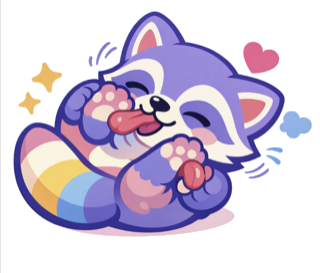
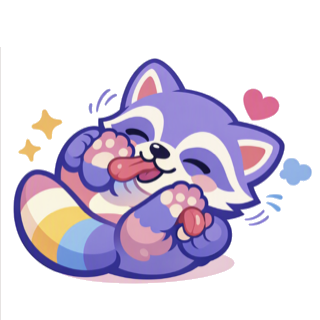
Rebuild mascot trash-can sequence: consistent framing, curated pacing
The real cause of "I don't understand the story" was inconsistent
image aspect ratios (248x320 portrait next to 320x213 landscape, etc)
— the mascot's container auto-sizes to each pose's own ratio, so it
was visibly resizing/jumping between every beat regardless of order
or timing. Padded all poses onto a common 320x320 canvas, bottom-
anchored, so the on-screen size never changes between frames.

Also dropped the wide establishing-shot bridge frame between the
fallen can and licking beats — its very different framing/scale made
the character read as tiny and unclear compared to the tight close-up
framing everywhere else — and re-paced the whole loop with slower,
more legible holds instead of rapid near-identical swaps.

diff --git a/stashdump/app.js b/stashdump/app.js
@@ -301,7 +301,6 @@
     trashcan: "mascot/mascot-trashcan.png",
     trashcanDigging: "mascot/mascot-trashcan-digging.png",
     trashcanFallen: "mascot/mascot-trashcan-fallen.png",
-    trashcanToLicking: "mascot/mascot-trashcan-to-licking.png",
   };
   const MASCOT_MARGIN = 16;
   // How close scroll progress (0-1) has to be to the true top/bottom to
@@ -416,30 +415,37 @@
   }
 
   // The idle show that plays on a loop for as long as the mascot is parked
-  // at the bottom: settle in, rummage around (paws flailing — the actual
-  // motion cue, not just a CSS shake of one static pose), topple the can
-  // over, climb out, lick its paws clean (tongue actually moving between two
-  // frames), then dive back in (sideways this time) and repeat. Each step
+  // at the bottom. The story, one beat per line below:
+  //   1. settled in the can, just its rear + tail sticking out
+  //   2-4. rummaging around inside (paws flailing — real motion between two
+  //        different poses, not a CSS shake of one static image)
+  //   5. the can visibly shaking from all the commotion (CSS wiggle)
+  //   6. it tips over (CSS rotate)
+  //   7. climbing out into the mess it made — held long, since it's the
+  //      busiest, most detail-rich frame and needs time to actually read
+  //   8-11. licking its paws clean (tongue moving between two frames)
+  //   12. dives back in (reusing the entry pose, mirrored) to loop
+  // Every frame is padded to the same 320x320 canvas (see pad_canvas.py) so
+  // the mascot's on-screen size never jumps between beats — the source
+  // illustrations were different aspect ratios, and that alone was making
+  // the sequence unreadable regardless of ordering or timing. Each step
   // only schedules the next one if we're still resting at the bottom, so
   // scrolling away at any point cuts the loop off cleanly instead of a
   // stray step firing later. instant:true skips the crossfade for the
-  // rapid alternation beats (digging, licking) so they read as quick
-  // motion rather than a blur.
+  // rapid alternation beats (digging, licking) so they read as quick motion
+  // rather than a blur.
   const MASCOT_BOTTOM_LOOP = [
-    { img: "trashcan", cls: [], hold: () => 2400 + Math.random() * 1200 },
-    { img: "trashcanDigging", cls: ["mascot-wiggle"], hold: 300, instant: true },
-    { img: "trashcan", cls: ["mascot-wiggle"], hold: 300, instant: true },
-    { img: "trashcanDigging", cls: ["mascot-wiggle"], hold: 300, instant: true },
-    { img: "trashcan", cls: ["mascot-wiggle"], hold: 300, instant: true },
-    { img: "trashcanDigging", cls: ["mascot-wiggle"], hold: 300, instant: true },
-    { img: "trashcan", cls: ["mascot-toppled"], hold: 550 },
-    { img: "trashcanFallen", cls: [], hold: 1500 },
-    { img: "trashcanToLicking", cls: [], hold: 650 },
-    { img: "licking", cls: [], hold: 420, instant: true },
-    { img: "licking2", cls: [], hold: 420, instant: true },
-    { img: "licking", cls: [], hold: 420, instant: true },
-    { img: "licking2", cls: [], hold: 420, instant: true },
+    { img: "trashcan", cls: [], hold: () => 2800 + Math.random() * 1200 },
+    { img: "trashcanDigging", cls: [], hold: 550, instant: true },
+    { img: "trashcan", cls: [], hold: 450, instant: true },
+    { img: "trashcanDigging", cls: [], hold: 550, instant: true },
+    { img: "trashcan", cls: ["mascot-wiggle"], hold: 900 },
+    { img: "trashcan", cls: ["mascot-toppled"], hold: 600 },
+    { img: "trashcanFallen", cls: [], hold: 2600 },
     { img: "licking", cls: [], hold: 500, instant: true },
+    { img: "licking2", cls: [], hold: 500, instant: true },
+    { img: "licking", cls: [], hold: 500, instant: true },
+    { img: "licking2", cls: [], hold: 600, instant: true },
     { img: "jumpIn", cls: ["mascot-sideways"], hold: 750 },
   ];
 

diff --git a/stashdump/sw.js b/stashdump/sw.js
@@ -1,4 +1,4 @@
-const CACHE_NAME = "stashdump-v13";
+const CACHE_NAME = "stashdump-v14";
 const ASSETS = [
   "./",
   "./index.html",
@@ -18,7 +18,6 @@ const ASSETS = [
   "./mascot/mascot-trashcan-digging.png",
   "./mascot/mascot-trashcan-fallen.png",
   "./mascot/mascot-trashcan-empty.png",
-  "./mascot/mascot-trashcan-to-licking.png",
 ];
 
 self.addEventListener("install", (event) => {
